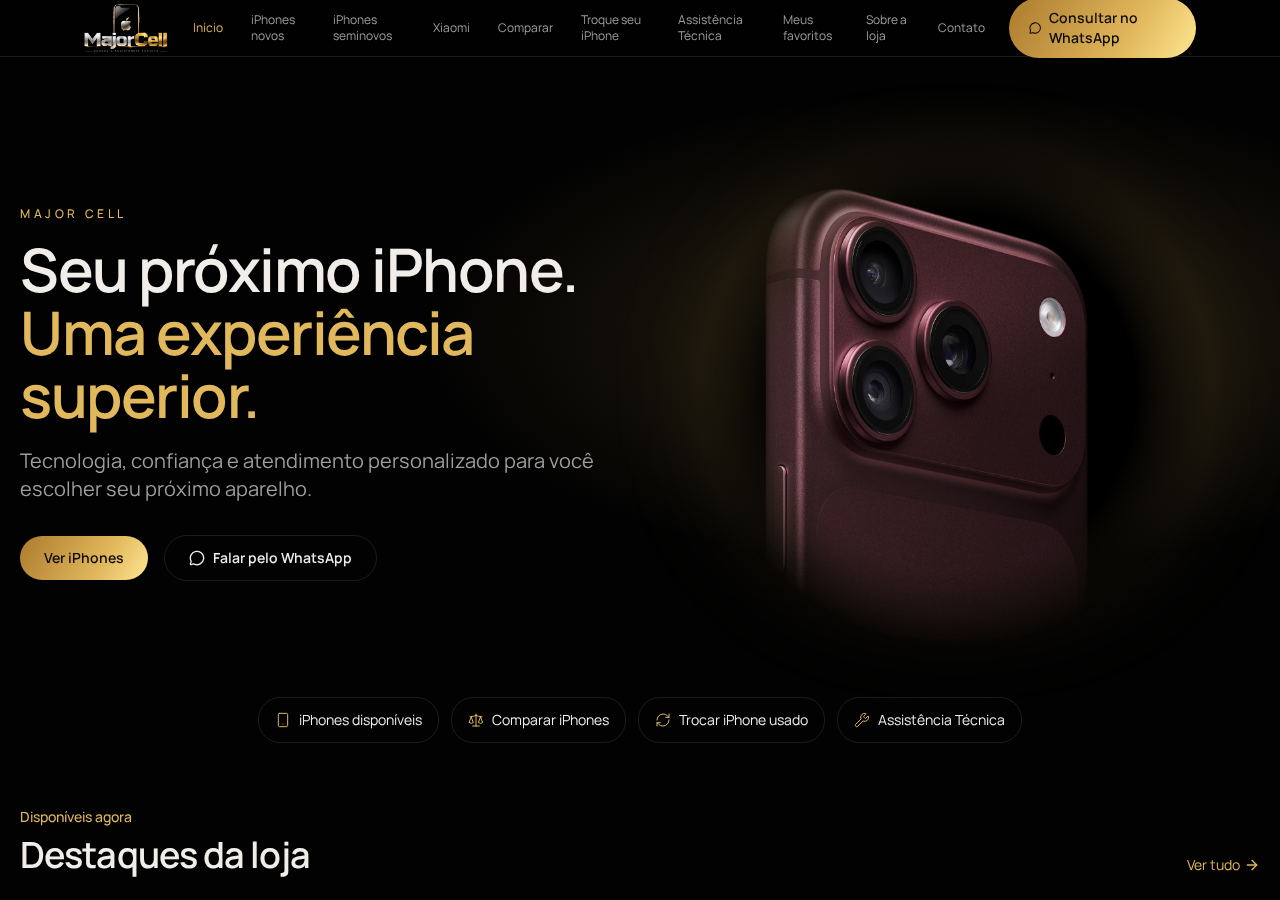
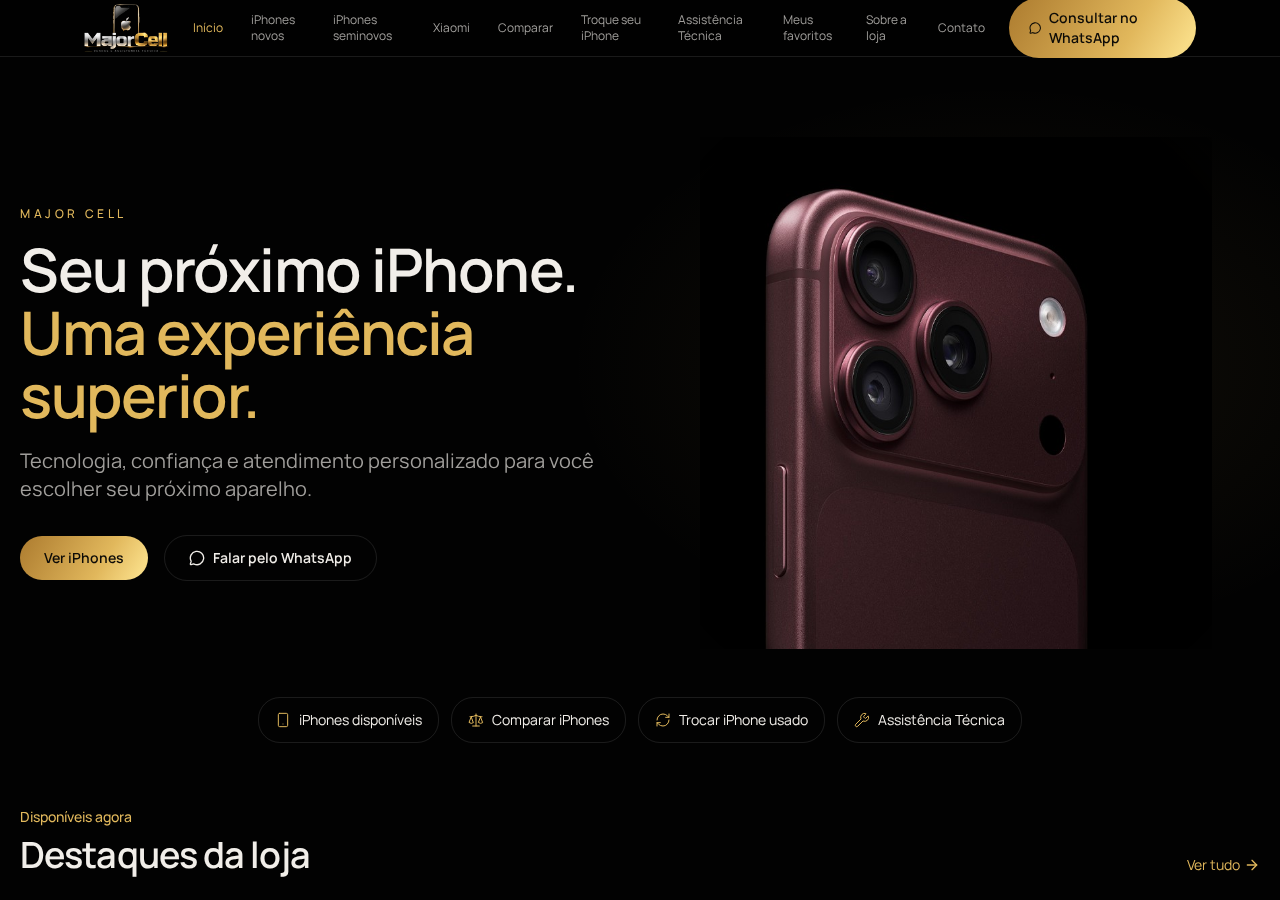
Changes

Changed region(s): [[0.5938, 0.56, 0.8438, 0.7467], [0.5312, 0.1867, 0.6875, 0.4667], [0.875, 0.2489, 0.9688, 0.4667]]

diff --git a/src/routes/index.tsx b/src/routes/index.tsx
@@ -2,6 +2,7 @@ import { createFileRoute, Link } from "@tanstack/react-router";
 import { useSuspenseQuery } from "@tanstack/react-query";
 import { ArrowRight, Smartphone, Scale, RefreshCw, Sparkles, MessageCircle, Wrench } from "lucide-react";
 import hero from "@/assets/hero.jpg";
+import heroPhone from "@/assets/hero-iphone17promax-deepblue.png.asset.json";
 import catSemi from "@/assets/cat-seminovo.jpg";
 import { WhatsAppButton } from "@/components/WhatsAppButton";
 import { CATEGORIES, comingSoonQuery, productsQuery } from "@/lib/products";
@@ -71,14 +72,15 @@ function Home() {
               </WhatsAppButton>
             </div>
           </div>
-          <div className="relative mx-auto w-full max-w-sm lg:max-w-none">
+          <div className="relative mx-auto w-full max-w-sm py-4 lg:max-w-none">
             <img
-              src={LAUNCH_IMG}
-              alt="iPhone 18 Pro na cor burgundy, foto oficial da Apple"
-              width={1024}
-              height={1024}
+              src={heroPhone.url}
+              alt="iPhone 17 Pro Max azul-profundo, foto oficial da Apple"
+              width={704}
+              height={900}
               fetchPriority="high"
-              className="relative mx-auto w-full max-w-sm object-contain animate-in fade-in duration-1000 lg:max-w-lg [mask-image:radial-gradient(75%_75%_at_50%_50%,black_80%,transparent_100%)]"
+              onError={(e) => { e.currentTarget.style.display = "none"; }}
+              className="relative mx-auto h-auto w-full max-w-[16rem] object-contain animate-in fade-in duration-700 drop-shadow-[0_30px_40px_rgba(0,0,0,0.6)] sm:max-w-xs lg:max-w-sm"
             />
           </div>
         </div>
